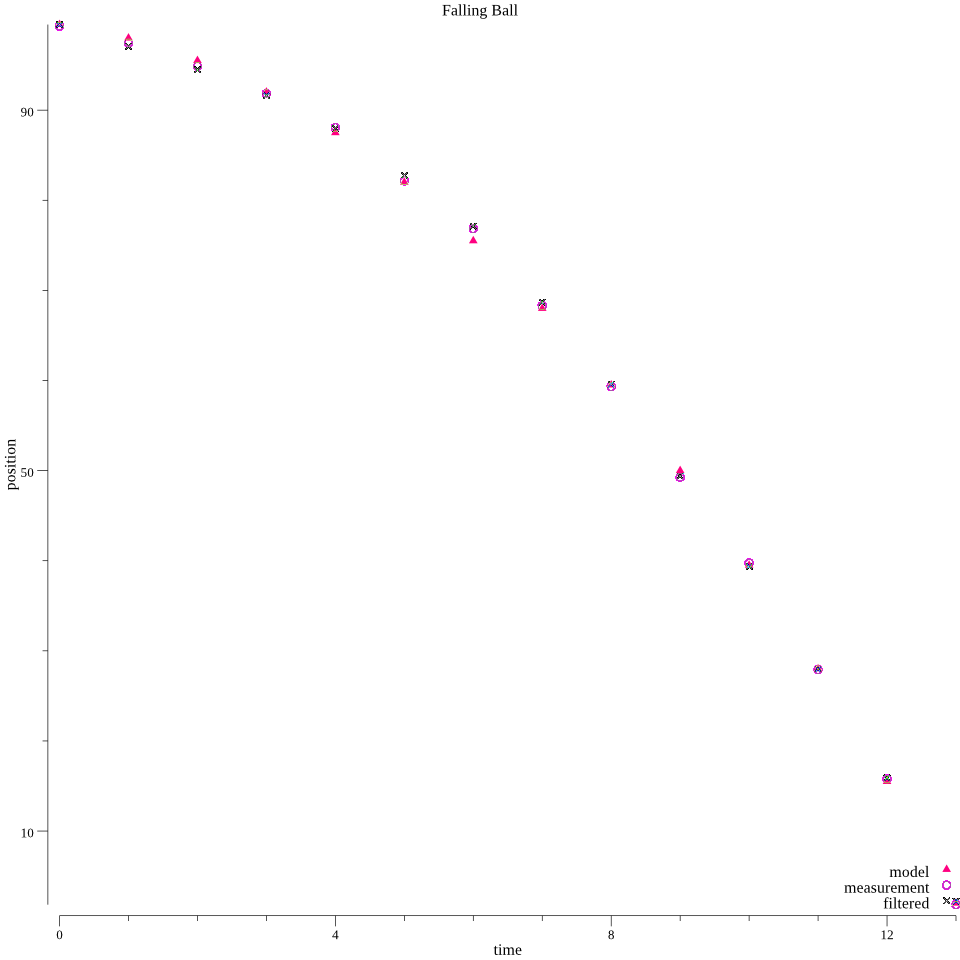
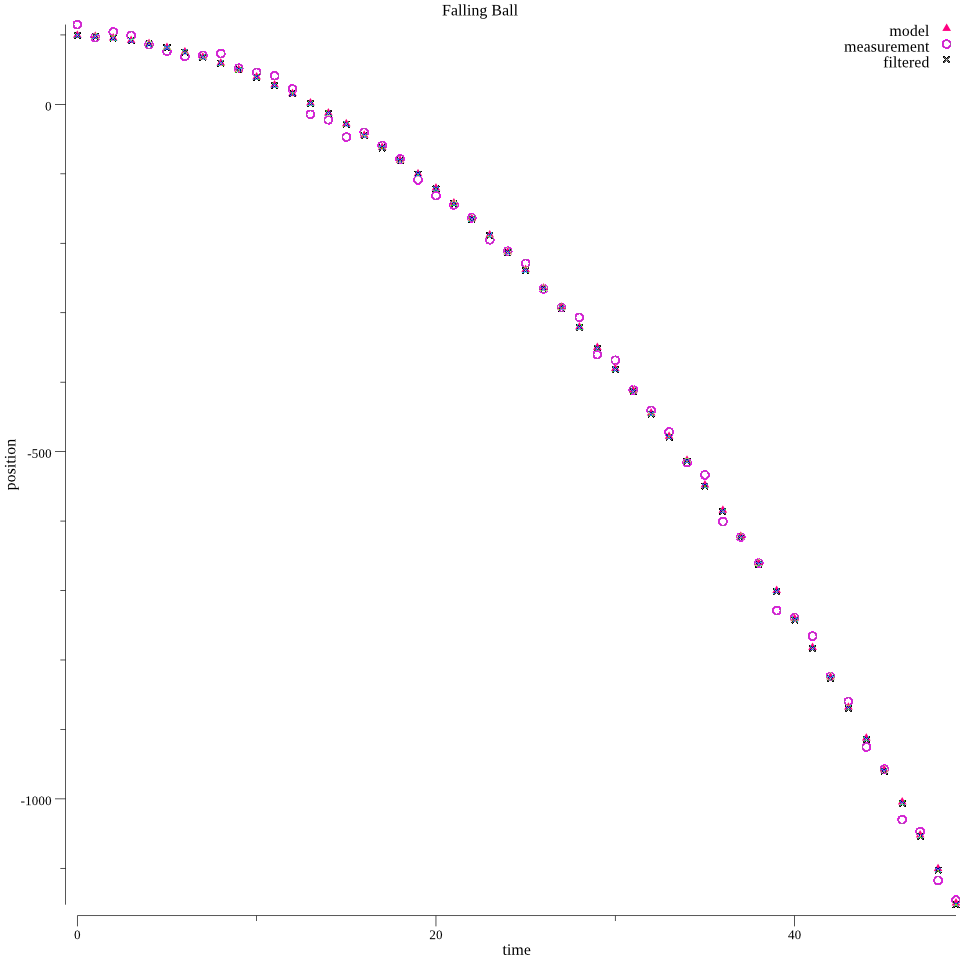
Improved examples. Moved plot legend to top right corner.

diff --git a/examples/ukf/ukf.go b/examples/ukf/ukf.go
@@ -27,6 +27,13 @@ func NewSystemPlot(model, meas, filter *mat.Dense) (*plot.Plot, error) {
 	p.X.Label.Text = "time"
 	p.Y.Label.Text = "position"
 
+	legend, err := plot.NewLegend()
+	if err != nil {
+		log.Fatalf("Failed to create new plot legend")
+	}
+	legend.Top = true
+	p.Legend = legend
+
 	// Make a scatter plotter for model data
 	modelData := makePoints(model)
 	modelScatter, err := plotter.NewScatter(modelData)
@@ -96,7 +103,7 @@ func main() {
 	u := mat.NewVecDense(1, []float64{-1.0})
 
 	// number of simulation steps
-	steps := 14
+	steps := 50
 
 	// modelOut measurements i.e. true model output state
 	modelOut := mat.NewDense(steps, 2, nil)
@@ -105,7 +112,7 @@ func main() {
 	measOut := mat.NewDense(steps, 2, nil)
 
 	// measurement noise used to simulate real system
-	measCov := mat.NewSymDense(1, []float64{0.25})
+	measCov := mat.NewSymDense(1, []float64{100.0})
 	measNoise, err := noise.NewGaussian([]float64{0.0}, measCov)
 	if err != nil {
 		log.Fatalf("Failed to create measurement noise: %v", err)
@@ -129,7 +136,8 @@ func main() {
 
 	// filter initial estimate
 	initX := &mat.VecDense{}
-	initX.AddVec(x, stateNoise.Sample())
+	initX.CloneVec(x)
+	initX.SetVec(0, initX.AtVec(0)+stateNoise.Sample().At(0, 0))
 	var est filter.Estimate
 	est, err = estimate.NewBase(initX)
 	if err != nil {
@@ -138,9 +146,9 @@ func main() {
 
 	// UKF configuration
 	c := &ukf.Config{
-		Alpha: 0.95,
+		Alpha: 0.001,
 		Beta:  2.0,
-		Kappa: 2.75,
+		Kappa: 0.0,
 	}
 
 	f, err := ukf.New(ball, initCond, nil, measNoise, c)

diff --git a/examples/ekf/ekf.go b/examples/ekf/ekf.go
@@ -27,6 +27,13 @@ func NewSystemPlot(model, meas, filter *mat.Dense) (*plot.Plot, error) {
 	p.X.Label.Text = "time"
 	p.Y.Label.Text = "position"
 
+	legend, err := plot.NewLegend()
+	if err != nil {
+		log.Fatalf("Failed to create new plot legend")
+	}
+	legend.Top = true
+	p.Legend = legend
+
 	// Make a scatter plotter for model data
 	modelData := makePoints(model)
 	modelScatter, err := plotter.NewScatter(modelData)
@@ -92,7 +99,7 @@ func main() {
 	}
 
 	// number of simulation steps
-	steps := 14
+	steps := 50
 
 	// modelOut measurements i.e. true model output state
 	modelOut := mat.NewDense(steps, 2, nil)
@@ -101,7 +108,7 @@ func main() {
 	measOut := mat.NewDense(steps, 2, nil)
 
 	// measurement noise used to simulate real system
-	measCov := mat.NewSymDense(1, []float64{0.25})
+	measCov := mat.NewSymDense(1, []float64{100.0})
 	measNoise, err := noise.NewGaussian([]float64{0.0}, measCov)
 	if err != nil {
 		log.Fatalf("Failed to create measurement noise: %v", err)
@@ -126,7 +133,8 @@ func main() {
 
 	// filter initial estimate
 	initX := &mat.VecDense{}
-	initX.AddVec(x, stateNoise.Sample())
+	initX.CloneVec(x)
+	initX.SetVec(0, initX.AtVec(0)+stateNoise.Sample().At(0, 0))
 	var est filter.Estimate
 	est, err = estimate.NewBase(initX)
 	if err != nil {

diff --git a/examples/kf/kf.go b/examples/kf/kf.go
@@ -27,6 +27,13 @@ func NewSystemPlot(model, meas, filter *mat.Dense) (*plot.Plot, error) {
 	p.X.Label.Text = "time"
 	p.Y.Label.Text = "position"
 
+	legend, err := plot.NewLegend()
+	if err != nil {
+		log.Fatalf("Failed to create new plot legend")
+	}
+	legend.Top = true
+	p.Legend = legend
+
 	// Make a scatter plotter for model data
 	modelData := makePoints(model)
 	modelScatter, err := plotter.NewScatter(modelData)
@@ -92,7 +99,7 @@ func main() {
 	}
 
 	// number of simulation steps
-	steps := 14
+	steps := 50
 
 	// modelOut measurements i.e. true model output state
 	modelOut := mat.NewDense(steps, 2, nil)
@@ -101,7 +108,7 @@ func main() {
 	measOut := mat.NewDense(steps, 2, nil)
 
 	// measurement noise used to simulate real system
-	measCov := mat.NewSymDense(1, []float64{0.25})
+	measCov := mat.NewSymDense(1, []float64{100.0})
 	measNoise, err := noise.NewGaussian([]float64{0.0}, measCov)
 	if err != nil {
 		log.Fatalf("Failed to create measurement noise: %v", err)
@@ -129,7 +136,8 @@ func main() {
 
 	// filter initial estimate
 	initX := &mat.VecDense{}
-	initX.AddVec(x, stateNoise.Sample())
+	initX.CloneVec(x)
+	initX.SetVec(0, initX.AtVec(0)+stateNoise.Sample().At(0, 0))
 	var est filter.Estimate
 	est, err = estimate.NewBase(initX)
 	if err != nil {

diff --git a/kalman/ukf/ukf.go b/kalman/ukf/ukf.go
@@ -196,7 +196,6 @@ func (k *UKF) GenSigmaPoints(x mat.Vector) (*SigmaPoints, error) {
 	// copy SqrtCov values into sigma points covariance matrix
 	for i := 0; i < r; i++ {
 		for j := 0; j < c; j++ {
-			//cov.SetSym(i, j, SqrtCov.At(i, j))
 			cov.SetSym(i, j, diagSqrt.At(i, j))
 		}
 	}
